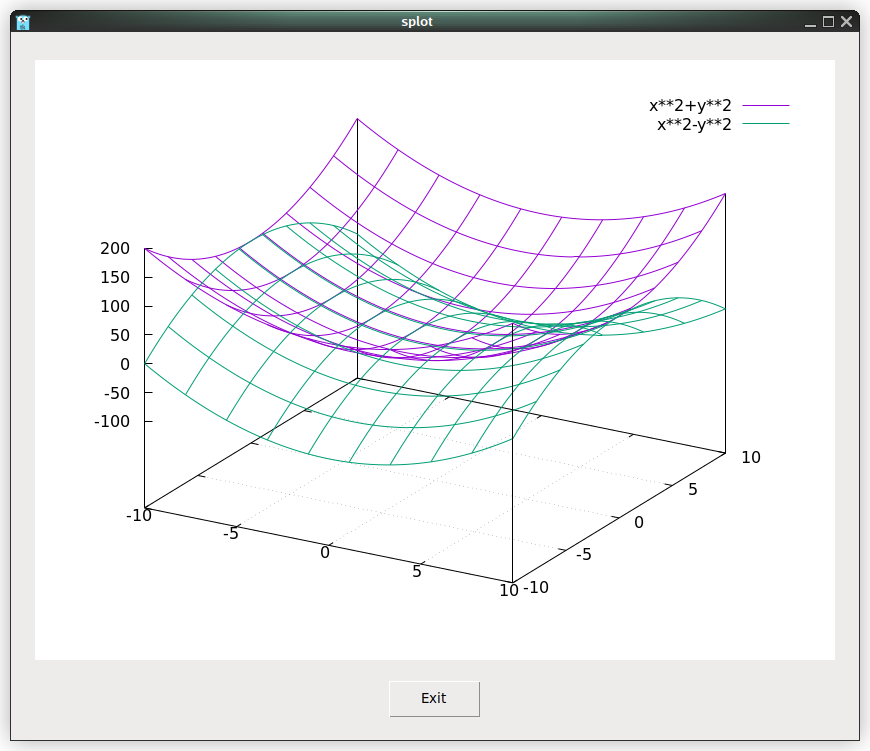
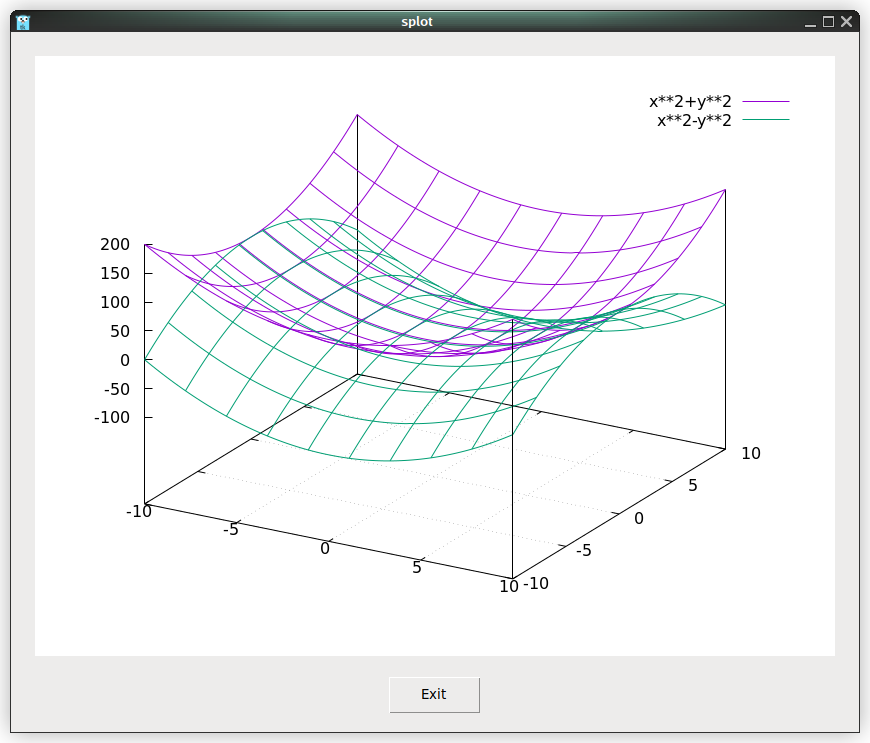
documentation improvements

diff --git a/_examples/choosecolor.go b/_examples/choosecolor.go
@@ -6,5 +6,5 @@ func main() {
 	b := Button(Txt("Choose Color"))
 	b.Configure(Command(func() { b.Configure(Background(ChooseColor(Initialcolor("gray"), Title("Choose color")))) }))
 	Pack(b, Exit(), Padx("1m"), Pady("2m"), Ipadx("1m"), Ipady("1m"))
-	App.Configure(Padx("4m"), Pady("4m")).Wait()
+	App.Configure(Padx("4m"), Pady("3m")).Wait()
 }

diff --git a/_examples/focus.go b/_examples/focus.go
@@ -11,5 +11,5 @@ func main() {
 	Grid(Label(Txt("A:")), a, TButton(Txt("Focus A"), Command(func() { Focus(a) })), style)
 	Grid(Label(Txt("B:")), b, TButton(Txt("Focus B"), Command(func() { Focus(b) })), style)
 	Grid(TExit(), Columnspan(3), style)
-	App.Configure(Padx("4m"), Pady("4m")).Wait()
+	App.Configure(Padx("4m"), Pady("3m")).Wait()
 }

diff --git a/_examples/font.go b/_examples/font.go
@@ -8,5 +8,5 @@ func main() {
 		t.TagConfigure(t.TagAdd(t.Insert(LC{i + 1, 0}, v+"\n"), LC{i + 2, 0}), Fnt(NewFont(Family(v))))
 	}
 	Pack(t, TExit(), Padx("1m"), Pady("2m"), Ipadx("1m"), Ipady("1m"))
-	App.Configure(Padx("4m"), Pady("4m")).Center().Wait()
+	App.Configure(Padx("4m"), Pady("3m")).Center().Wait()
 }

diff --git a/_examples/splot.go b/_examples/splot.go
@@ -7,5 +7,5 @@ func main() {
 		Label(Image(NewPhoto(Width(800), Height(600)).Graph("set grid; splot x**2+y**2, x**2-y**2"))),
 		TExit(), Padx("1m"), Pady("2m"), Ipadx("1m"), Ipady("1m"),
 	)
-	App.Configure(Padx("4m"), Pady("4m")).Center().Wait()
+	App.Configure(Padx("4m"), Pady("3m")).Center().Wait()
 }

diff --git a/_examples/tori_canvas.go b/_examples/tori_canvas.go
@@ -33,5 +33,5 @@ func main() {
 		Canvas(Width(800), Height(600), Background(White)).Graph(script),
 		TExit(), Padx("1m"), Pady("2m"), Ipadx("1m"), Ipady("1m"),
 	)
-	App.Configure(Padx("4m"), Pady("4m")).Center().Wait()
+	App.Configure(Padx("4m"), Pady("3m")).Center().Wait()
 }

diff --git a/_examples/tori.go b/_examples/tori.go
@@ -36,5 +36,5 @@ func main() {
 		Label(Image(NewPhoto(Width(800), Height(600)).Graph(script))),
 		TExit(), Padx("1m"), Pady("2m"), Ipadx("1m"), Ipady("1m"),
 	)
-	App.Configure(Padx("4m"), Pady("4m")).Center().Wait()
+	App.Configure(Padx("4m"), Pady("3m")).Center().Wait()
 }

diff --git a/_examples/photo.go b/_examples/photo.go
@@ -8,5 +8,5 @@ var gopher []byte
 
 func main() {
 	Pack(Label(Image(NewPhoto(Data(gopher)))), TExit(), Padx("1m"), Pady("2m"), Ipadx("1m"), Ipady("1m"))
-	App.Configure(Padx("4m"), Pady("4m")).Center().Wait()
+	App.Configure(Padx("4m"), Pady("3m")).Center().Wait()
 }

diff --git a/tk.go b/tk.go
@@ -26,7 +26,7 @@
 //
 //	$ CGO_ENABLED=0 go run hello.go
 //
-// The CGO_ENABLED=0 is optinal and here it only demonstrates the program can
+// The CGO_ENABLED=0 is optional and here it only demonstrates the program can
 // be built without CGo.
 //
 // # Debugging

diff --git a/_examples/hello2.go b/_examples/hello2.go
@@ -6,5 +6,5 @@ import . "modernc.org/tk9.0"
 
 func main() {
 	Pack(TExit(Txt("Hello")), Ipadx(10), Ipady(5), Padx(20), Pady(10))
-	App.Configure(Padx("4m"), Pady("4m")).Wait()
+	App.Configure(Padx("4m"), Pady("3m")).Wait()
 }

diff --git a/_examples/busy.go b/_examples/busy.go
@@ -21,5 +21,5 @@ func main() {
 		TExit(),
 		Padx("1m"), Pady("2m"), Ipadx("1m"), Ipady("1m"),
 	)
-	App.Configure(Padx("4m"), Pady("4m")).Wait()
+	App.Configure(Padx("4m"), Pady("3m")).Wait()
 }

diff --git a/_examples/fontchooser.go b/_examples/fontchooser.go
@@ -14,5 +14,5 @@ func main() {
 		TExit(),
 		Padx("1m"), Pady("2m"), Ipadx("1m"), Ipady("1m"),
 	)
-	App.Configure(Padx("4m"), Pady("4m")).Wait()
+	App.Configure(Padx("4m"), Pady("3m")).Wait()
 }

diff --git a/_examples/lower.go b/_examples/lower.go
@@ -15,5 +15,5 @@ func main() {
 		TExit(),
 		Padx("1m"), Pady("2m"), Ipadx("1m"), Ipady("1m"),
 	)
-	App.Configure(Padx("4m"), Pady("4m")).Wait()
+	App.Configure(Padx("4m"), Pady("3m")).Wait()
 }
